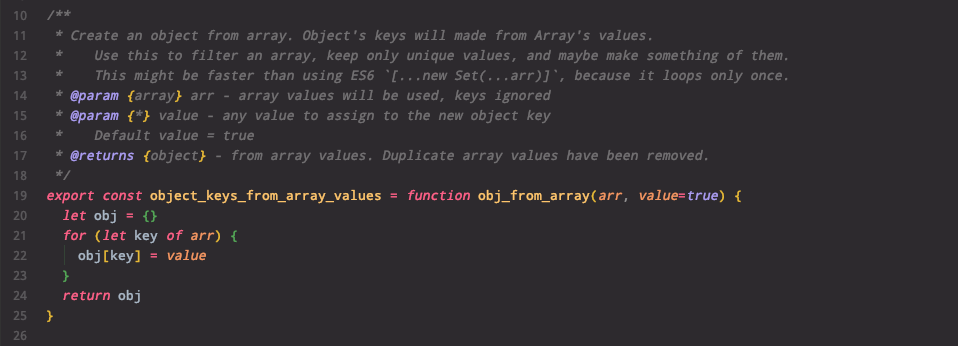
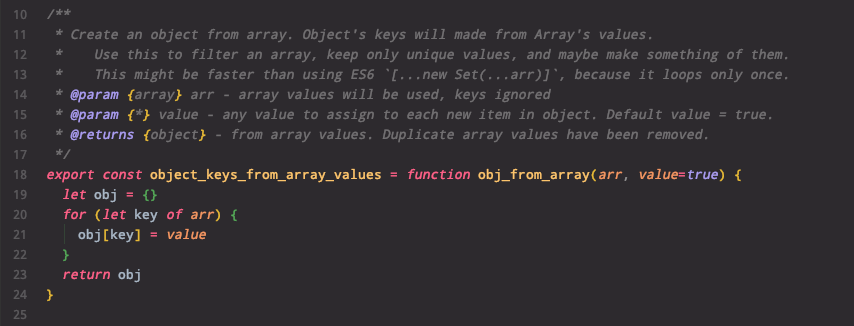
updated readme

diff --git a/src/objects.js b/src/objects.js
@@ -12,8 +12,7 @@ export const objects_are_equal = function objects_are_equal(obj1, obj2) {
  *    Use this to filter an array, keep only unique values, and maybe make something of them.
  *    This might be faster than using ES6 `[...new Set(...arr)]`, because it loops only once.
  * @param {array} arr - array values will be used, keys ignored
- * @param {*} value - any value to assign to the new object key
- *    Default value = true
+ * @param {*} value - any value to assign to each new item in object. Default value = true.
  * @returns {object} - from array values. Duplicate array values have been removed.
  */
 export const object_keys_from_array_values = function obj_from_array(arr, value=true) {

diff --git a/README.md b/README.md
@@ -1,12 +1,12 @@
 # 📚 pauls-pure-functions 📚
 
-Library of useful functions like underscore/lodash. Very small. No dependencies. A collection of various random useful scripts for data manipulation and modern web development. Please use and contribute.
+Library of useful functions like underscore/lodash. Very small. No dependencies. A collection of various random useful scripts for data manipulation and modern web development. Please use and contribute. **Please tell me what I should name this!**
 ![example1](docs/examples/object_keys_from_array_values.png)
 <p>&nbsp;</p>
 
 # Why?
 
-Lodash did not have certain things that I needed. And, I did not want to constantly re-invent the wheel and search for code snippets. With this, I can import one or several functions at a time, as needed, without importing an entire library! Lodash does have ES6 compatible tree shaking and pure functions now, so do check out [lodash/fp](https://github.com/lodash/lodash/wiki/FP-Guide) as well. Currently working on testing and documenting this library. Just finished the build process for browsers!
+Lodash did not have certain things that I needed. And, I did not want to constantly re-invent the wheel and search for code snippets. With this, I can import one or several functions at a time, as needed, without importing an entire library! Lodash does have ES6 compatible tree shaking and pure functions now, so do check out [lodash/fp](https://github.com/lodash/lodash/wiki/FP-Guide) as well. Currently working on testing and documenting this library. Just finished the build process for browsers! \
 [Try it out in this CodePen!](https://codepen.io/paulshorey/pen/bGweWaB?editors=0012)
 <p>&nbsp;</p>
 
